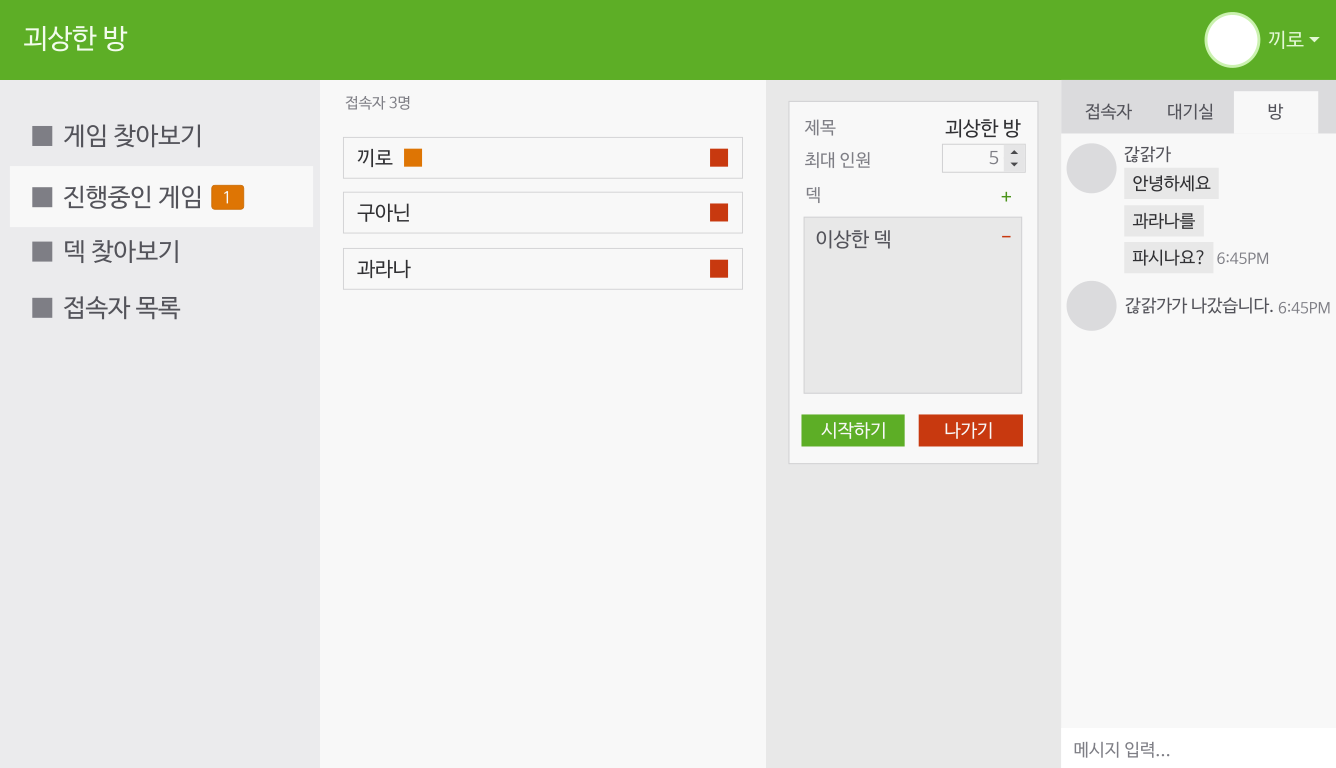
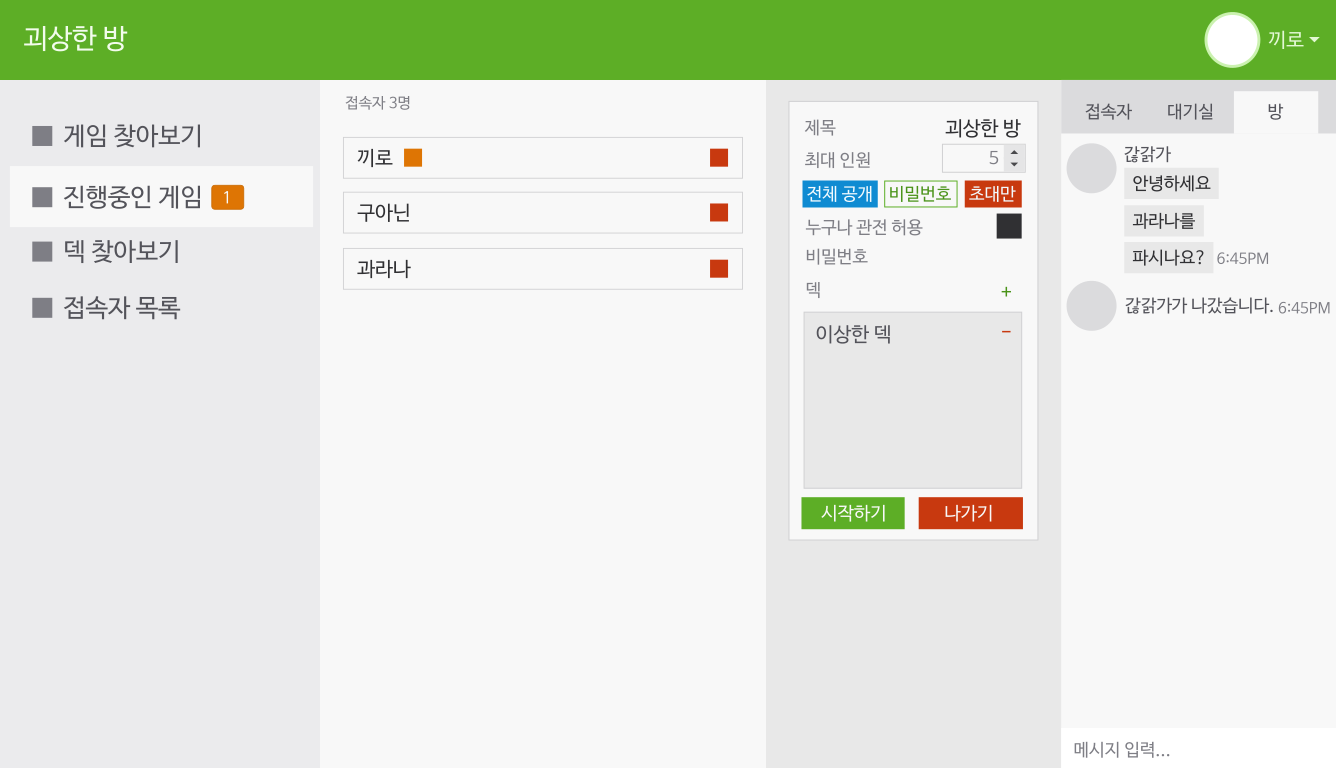
Implement SelectInput

diff --git a/src/container/form/roomForm.js b/src/container/form/roomForm.js
@@ -3,6 +3,7 @@ import { reduxForm } from 'redux-form';
 import { validate } from 'jsonschema';
 import classNames from 'classnames';
 
+import SelectInput from '../../component/ui/selectInput';
 import ReadInput from '../../component/ui/readInput';
 import ErrorInput from '../../component/ui/errorInput';
 import { Pane } from '../../component/roomInspector';
@@ -14,7 +15,7 @@ import roomCreateFormSchema from '../../schema/roomCreateForm';
 
 class RoomForm extends Component {
   render() {
-    const { fields: { name, maxUserCount, password },
+    const { fields: { name, maxUserCount, lockType, password },
       handleSubmit, invalid, pristine, className, inRoom,
       canEdit, roomView, onJoin = () => {}, onLeave = () => {} } = this.props;
     const Input = !roomView || canEdit ? ErrorInput : ReadInput;
@@ -29,18 +30,25 @@ class RoomForm extends Component {
                     {...name}
                   />
                 </div>
-                {!roomView || canEdit && (
+                <div className='field label'>
+                  <Input type='number' {...maxUserCount}
+                    min={1} max={100} label={__('RoomMaxUserCountName')}
+                  />
+                </div>
+                <div className='field'>
+                  <SelectInput {...lockType} options={[
+                    { label: __('RoomTypePublic'), value: 'public' },
+                    { label: __('RoomTypePassword'), value: 'password' },
+                    { label: __('RoomTypeInvite'), value: 'invite' }
+                  ]}/>
+                </div>
+                {(!roomView || canEdit) && (
                   <div className='field'>
                     <ErrorInput type='password'
                       placeholder={__('RoomPasswordName')} {...password}
                     />
                   </div>
                 )}
-                <div className='field label'>
-                  <Input type='number' {...maxUserCount}
-                    min={1} max={100} label={__('RoomMaxUserCountName')}
-                  />
-                </div>
               </div>
             </div>
             <Pane title={__('RoomRulesName')}>
@@ -109,9 +117,10 @@ RoomForm.propTypes = {
 
 export default reduxForm({
   form: 'room',
-  fields: ['name', 'maxUserCount', 'password'],
+  fields: ['name', 'maxUserCount', 'lockType', 'password'],
   initialValues: {
-    maxUserCount: 10
+    maxUserCount: 10,
+    lockType: 'public'
   },
   validate: values => {
     let newValues = Object.assign({}, values, {

diff --git a/src/component/ui/selectInput.js b/src/component/ui/selectInput.js
@@ -1,0 +1,88 @@
+import React, { Component, PropTypes } from 'react';
+import classNames from 'classnames';
+
+export default class SelectInput extends Component {
+  constructor(props) {
+    super(props);
+    this.state = {
+      isFocused: false
+    };
+  }
+  handleSelect(value) {
+    this.props.onChange(value);
+  }
+  handleFocus() {
+    this.setState({
+      isFocused: true
+    });
+    this.props.onFocus();
+  }
+  handleBlur() {
+    this.setState({
+      isFocused: false
+    });
+    this.props.onBlur(this.props.value);
+  }
+  getCurrentPos() {
+    const { value, options } = this.props;
+    return options.reduce((p, option, i) => option.value === value ? i : p, 0);
+  }
+  selectRelative(n) {
+    let pos = this.getCurrentPos();
+    let newPos = pos + n;
+    const { options } = this.props;
+    if (newPos < 0) newPos = options.length + newPos;
+    if (newPos >= options.length) newPos = options.length - newPos;
+    this.handleSelect(options[newPos].value);
+  }
+  handleKeyDown(e) {
+    switch (e.keyCode) {
+    case 37: // left
+    case 38: // up
+      this.selectRelative(-1);
+      e.preventDefault();
+      break;
+    case 39: // right
+    case 40: // down
+      this.selectRelative(1);
+      e.preventDefault();
+      break;
+    }
+  }
+  render() {
+    const { className, tabIndex, options, value } = this.props;
+    const { isFocused } = this.state;
+    return (
+      <ul
+        className={classNames('select-input-component', className)}
+        tabIndex={tabIndex || 0}
+        onFocus={this.handleFocus.bind(this)}
+        onBlur={this.handleBlur.bind(this)}
+        onKeyDown={this.handleKeyDown.bind(this)}
+      >
+        {options.map(option => (
+          <li
+            key={option.value}
+            className={classNames('option', {
+              selected: option.value === value,
+              focus: option.value === value && isFocused
+            })}
+            onClick={this.handleSelect.bind(this, option.value)}
+          >
+            {option.label}
+          </li>
+        ))}
+      </ul>
+    );
+  }
+}
+
+SelectInput.propTypes = {
+  className: PropTypes.string,
+  value: PropTypes.any,
+  tabIndex: PropTypes.number,
+  options: PropTypes.array,
+  onChange: PropTypes.func,
+  onFocus: PropTypes.func,
+  onBlur: PropTypes.func
+};

diff --git a/src/style/component/ui/selectInput.scss b/src/style/component/ui/selectInput.scss
@@ -1,0 +1,30 @@
+.select-input-component {
+  text-align: center;
+  margin: 0.4em 0;
+  padding: 0;
+  list-style-type: none;
+  & > .option {
+    display: inline-block;
+    margin: 0;
+    margin-right: 0.4em;
+    &:last-child {
+      margin-right: 0;
+    }
+    padding: 0.4em 0.54em;
+    border: 1px solid transparent;
+    border-radius: 2px;
+    background-color: $blue-700;
+    color: $blue-100;
+    &:hover, &.focus {
+      background-color: $blue-600;
+    }
+    &.selected {
+      color: $blue-800;
+      background-color: $grey-100;
+      border: 1px solid $blue-700;
+      &.focus {
+        background-color: $blue-200;
+      }
+    }
+  }
+}

diff --git a/src/reducer/common/room.js b/src/reducer/common/room.js
@@ -54,7 +54,8 @@ export default function roomEntry(state = {
     rules: []
   },
   playing: false,
-  locked: false,
+  lockType: 'public',
+  allowSpectate: true,
   password: null,
   chat: undefined
 }, action) {

diff --git a/src/style/component/roomInspector.scss b/src/style/component/roomInspector.scss
@@ -43,7 +43,7 @@
       max-height: 10em;
       font-size: 0.92em;
       overflow: auto;
-      ul {
+      & > ul {
         padding: 0;
         margin: 0;
         list-style-type: none;

diff --git a/src/style/component/ui/button.scss b/src/style/component/ui/button.scss
@@ -1,4 +1,4 @@
-.button-component {
+.button-component, input[type='button'] {
   font-size: 1em;
   background-color: $blue-700;
   color: #FFFFFF;

diff --git a/doc/schema.md b/doc/schema.md
@@ -79,7 +79,8 @@ unless scope is specified, except connection actions.
   - decks
   - rules
 - playing
-- locked
+- lockType
+- allowSpectate
 - password
 - chat
 - session
